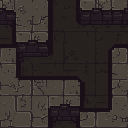
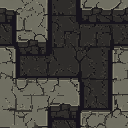
바닥을 깐다 — PixelLab 돌바닥 + 픽셀 횃불빛
병수님: "디아블로 같은 느낌이긴한데,, 뭔가 부족하긴한데,,뭘까"

부족했던 것은 **바닥**이었다. 판을 열두 번 고치는 동안 화면의 80% 를 차지하는
전장은 **검은 색 하나**였고, 캐릭터가 허공에 떠 있었다. 거기 깔린 빛도
createRadialGradient — 전부 픽셀로 갈아 놓고 **제일 넓은 면만** 매끄러웠다.

  · PixelLab create_topdown_tileset (Wang 16타일) → **all-lower 한 칸** 추출.
    이어짐은 Wang 규칙이 보장한다
  · 횃불빛은 **저해상도(6px 격자)로 구워 확대**한다. 화면 해상도로 원을 그리면
    계단이 1px 이라 눈에 안 보이고 그러면 그라디언트와 구별이 안 된다
  · 빛은 바닥에 **곱한다** — 무늬가 어둠에 잠겼다가 빛 안에서 살아나야
    「빛이 닿았다」로 읽힌다
  · 타일 한 장을 그대로 반복하면 **격자가 보인다**. 좌우·상하 뒤집은 네 변형을
    자리마다 골라 쓰면 주기가 128px 로 늘어난다. 고르는 값은 **좌표로 정한다** —
    난수면 매 프레임 무늬가 바뀌어 바닥이 끓는다

★ 1차 타일은 버렸다. 프롬프트에 "DARK, torchlit gloom" 을 넣었더니 밝기 범위가
**21~44**(255 중) 인 검은 판때기가 나왔다. **어둠은 조명이 만드는 것이지 텍스처가
만드는 게 아니다.** 재료는 밝게 굽고 어둠은 코드가 씌운다.

★ 다운로드 URL 이 둘이다. download_png 는 backblaze 로 가서 **403** 이 난다
(서명 토큰이 안 붙는다). 같은 PNG 를 주는 ?inline=true 를 쓸 것.

diff --git a/js/ground.js b/js/ground.js
@@ -48,26 +48,51 @@ function bakeLight(w, h, cx, cy, radius, squash) {
   return lightCv;
 }
 
-let floorImg = null, floorReady = false;
-/** 바닥 타일. PixelLab 이 구운 것을 쓰고, 아직 없으면 빛만 깔린다(깨지지 않는다). */
-export function loadFloor(src) {
+let tiles = [];            // 미리 구운 네 가지 변형
+let floorReady = false;
+
+/** 바닥 타일을 받아 **네 가지 변형으로 미리 구워 둔다.**
+ *  ★ 한 장을 그대로 반복하면 **격자가 보인다** — 같은 얼룩이 32px 마다 되풀이되니
+ *  눈이 그 주기를 금방 찾아낸다. 좌우·상하로 뒤집은 네 장을 자리마다 골라 쓰면
+ *  주기가 128px 로 늘어나고 무늬가 훨씬 덜 읽힌다. 뒤집기는 **공짜**다(새로 굽지 않는다).
+ *
+ *  ★ 굽는 김에 **밝기도 올린다.** PixelLab 이 준 crypt 타일은 평균 밝기가 41(255 중)
+ *  이라 조명을 곱하면 거의 검정이 된다. 어둠은 조명이 만들어야 하므로 재료는 밝게
+ *  둔다 — 그래야 빛 안에서 살아나고 빛 밖에서 잠긴다. */
+export function loadFloor(src, boost = 1.8) {
   const im = new Image();
-  im.onload = () => { floorImg = im; floorReady = true; };
+  im.onload = () => {
+    const t = im.width;
+    tiles = [[1, 1], [-1, 1], [1, -1], [-1, -1]].map(([sx, sy]) => {
+      const c = document.createElement("canvas");
+      c.width = t; c.height = t;
+      const g = c.getContext("2d");
+      g.imageSmoothingEnabled = false;
+      g.filter = `brightness(${boost}) saturate(0.9)`;
+      g.translate(sx < 0 ? t : 0, sy < 0 ? t : 0);
+      g.scale(sx, sy);
+      g.drawImage(im, 0, 0);
+      return c;
+    });
+    floorReady = true;
+  };
   im.src = src;
 }
 
-/** 전장 바닥 한 판. **타일 → 빛 → 고리** 순서로 얹는다. */
+/** 전장 바닥 한 판. **타일 → 빛** 순서로 얹는다. */
 export function drawGround(ctx, w, h, cx, cy, radius, squash) {
   ctx.fillStyle = "#070504"; ctx.fillRect(0, 0, w, h);
 
-  /* ① 돌바닥 — 타일을 격자로 깐다. **정수 좌표로만** 놓는다(소수면 가장자리가 흐려진다). */
+  /* ① 돌바닥 — 타일을 격자로 깐다. **정수 좌표로만** 놓는다(소수면 가장자리가 흐려진다).
+     자리마다 네 변형 중 하나를 고르는데, **좌표로 정한다**(난수가 아니다) —
+     난수면 매 프레임 무늬가 바뀌어 바닥이 끓는다. */
   if (floorReady) {
-    const t = floorImg.width;
+    const t = tiles[0].width;
     ctx.imageSmoothingEnabled = false;
-    const ox = Math.floor(cx % t) - t, oy = Math.floor(cy % t) - t;
-    for (let y = oy; y < h + t; y += t)
-      for (let x = ox; x < w + t; x += t)
-        ctx.drawImage(floorImg, Math.floor(x), Math.floor(y));
+    const ox = Math.floor(cx) % t - t, oy = Math.floor(cy) % t - t;
+    for (let y = oy, gy = 0; y < h + t; y += t, gy++)
+      for (let x = ox, gx = 0; x < w + t; x += t, gx++)
+        ctx.drawImage(tiles[(gx * 3 + gy * 7 + ((gx * gy) & 1)) & 3], x, y);
   }
 
   /* ② 횃불빛 — 저해상도로 구워 곱하기로 덮는다. 곱하기라 바닥 무늬가 어둠 속에서

diff --git a/tools/pixellab/decor.py b/tools/pixellab/decor.py
@@ -1,0 +1,109 @@
+#!/usr/bin/env python3
+"""던전을 **방**으로 만드는 조각들 — 병수님: "배경도 던전처럼 잘 다시 만들어봐".
+
+바닥만 깔면 **끝없는 벌판**이다. 던전으로 읽히려면 셋이 더 있어야 한다:
+
+  · **벽** — 여기가 끝이라는 것. 벽이 없으면 방이 아니다
+  · **기둥** — 세로로 선 것이 있어야 공간에 높이가 생긴다
+  · **소품** — 관·뼈무더기·화로. 사람이 살았던 자리라는 표시
+
+`create_map_object` 를 쓴다(1생성, 단일 오브젝트에 강하다). `create_ui_asset` 은
+자꾸 「에셋 시트」를 준다(d2r.py 교훈).
+
+★ 색은 **맨 앞에 대문자로**. 중간에 적으면 묻혀서 청보라가 나온다.
+★ 소품은 **어둡게 굽지 않는다** — 어둠은 조명이 만든다(floor.py 에서 배운 것).
+  다만 벽은 바닥보다 **한 단계 어두워야** 뒤로 물러나 보인다.
+"""
+import base64, json, os, re, subprocess, sys, time
+
+HERE = os.path.dirname(os.path.abspath(__file__))
+ROOT = os.path.abspath(os.path.join(HERE, "..", ".."))
+MCP  = os.path.join(HERE, "mcp_call.py")
+OUT  = os.path.join(ROOT, "assets", "decor")
+
+TONE = ("MEDIUM GREY STONE AND BONE, desaturated, moderate contrast, evenly lit, "
+        "no vignette, no shadows baked in, "
+        "absolutely no blue, no purple, no violet, no teal, no green, "
+        "Diablo 2 crypt, grim gothic pixel art")
+ONE  = ("ONE single object only, centered, transparent background, "
+        "not a sheet, no grid of items, no duplicates, no text, no numbers")
+
+PARTS = {
+  # ── 벽 ── 좌우로 이어 붙인다. 끝을 잘라 달라고 못박아야 이어진다.
+  "wall": (f"{TONE}, {ONE}, a straight horizontal section of ancient stone dungeon wall "
+           "seen from slightly above, big rough blocks with deep mortar joints, "
+           "flat top edge, the left and right ends are cut off mid-block so copies tile "
+           "edge to edge, no corners, no end caps, no doorway", 128, 64),
+  # ── 기둥 ── 세로로 선 것. 공간에 높이를 준다.
+  "pillar": (f"{TONE}, {ONE}, a tall broken stone column standing upright, cracked shaft, "
+             "chipped capital, crumbling base, vertical, full body", 64, 128),
+  # ── 소품 넷 ── 사람이 살았던(죽었던) 자리라는 표시
+  "coffin": (f"{TONE}, {ONE}, a heavy stone sarcophagus lying on the ground seen from above "
+             "at an angle, cracked lid slightly pushed aside, carved edge", 96, 64),
+  "bones":  (f"{TONE}, {ONE}, a small pile of pale skulls and bones heaped on the ground, "
+             "seen from above at an angle, low and wide", 64, 48),
+  "brazier": (f"{TONE}, {ONE}, an iron brazier bowl on three legs with dim orange embers "
+              "glowing inside, upright, no big flame, no light rays", 48, 64),
+  "rubble": (f"{TONE}, {ONE}, a low heap of broken stone rubble and dust on the ground, "
+             "seen from above at an angle, flat and scattered", 64, 40),
+}
+
+# ★★ **허용값은 도구마다 다르다.** create_topdown_tileset 은 "highly detailed" 를
+# 받는데 create_map_object 는 "high detail" 을 받는다 — 같은 열쇠 이름에 다른 낱말이다.
+# floor.py 에 그렇게 적어 놓고도 여기서 거꾸로 넣어 여섯 장을 다 튕겼다.
+COMMON = {"outline": "single color outline", "shading": "detailed shading",
+          "detail": "high detail"}
+
+
+def mcp(tool, args, timeout=300):
+    r = subprocess.run([sys.executable, MCP, tool, json.dumps(args)],
+                       capture_output=True, text=True, timeout=timeout)
+    if r.returncode != 0:
+        raise RuntimeError(f"{tool} 실패: {r.stderr[:250]}")
+    return json.loads(r.stdout)
+
+def content(r): return r.get("result", {}).get("content", [])
+def text_of(r): return "\n".join(c.get("text", "") for c in content(r) if c.get("type") == "text")
+def path_of(k): return os.path.join(OUT, k + ".png")
+
+
+if __name__ == "__main__":
+    force = "--force" in sys.argv
+    only = [a for a in sys.argv[1:] if not a.startswith("--")]
+    todo = [k for k in PARTS if (not only or k in only) and (force or not os.path.exists(path_of(k)))]
+    if not todo:
+        print("전부 이미 있음"); sys.exit(0)
+
+    jobs = {}
+    for k in todo:                                   # 먼저 전부 줄 세운다
+        desc, w, h = PARTS[k]
+        try:
+            t = text_of(mcp("create_map_object", {"description": desc,
+                                                  "width": w, "height": h, **COMMON}))
+            m = re.search(r"id:\s*(\S+)", t)
+            if not m: print(f"실패 {k} — {t[:160]}", flush=True); continue
+            jobs[k] = m.group(1); print(f"줄 세움 {k}", flush=True)
+        except Exception as e:
+            print(f"실패 {k} — {e}", flush=True)
+        time.sleep(1.2)
+
+    for rnd in range(80):
+        left = {k: v for k, v in jobs.items() if not os.path.exists(path_of(k))}
+        if not left: break
+        for k, oid in left.items():
+            try:
+                r = mcp("get_map_object", {"object_id": oid})
+                if "status: completed" not in text_of(r): continue
+                for c in content(r):
+                    if c.get("type") == "image" and c.get("data"):
+                        os.makedirs(OUT, exist_ok=True)
+                        open(path_of(k), "wb").write(base64.b64decode(c["data"]))
+                        print(f"받음 {k}", flush=True)
+            except Exception as e:
+                print(f"대기 {k} — {str(e)[:60]}", flush=True)
+            time.sleep(1)
+        if any(not os.path.exists(path_of(k)) for k in jobs):
+            time.sleep(15)
+
+    got = [k for k in PARTS if os.path.exists(path_of(k))]
+    print(f"══ {len(got)}/{len(PARTS)}장  " + " ".join(got), flush=True)
